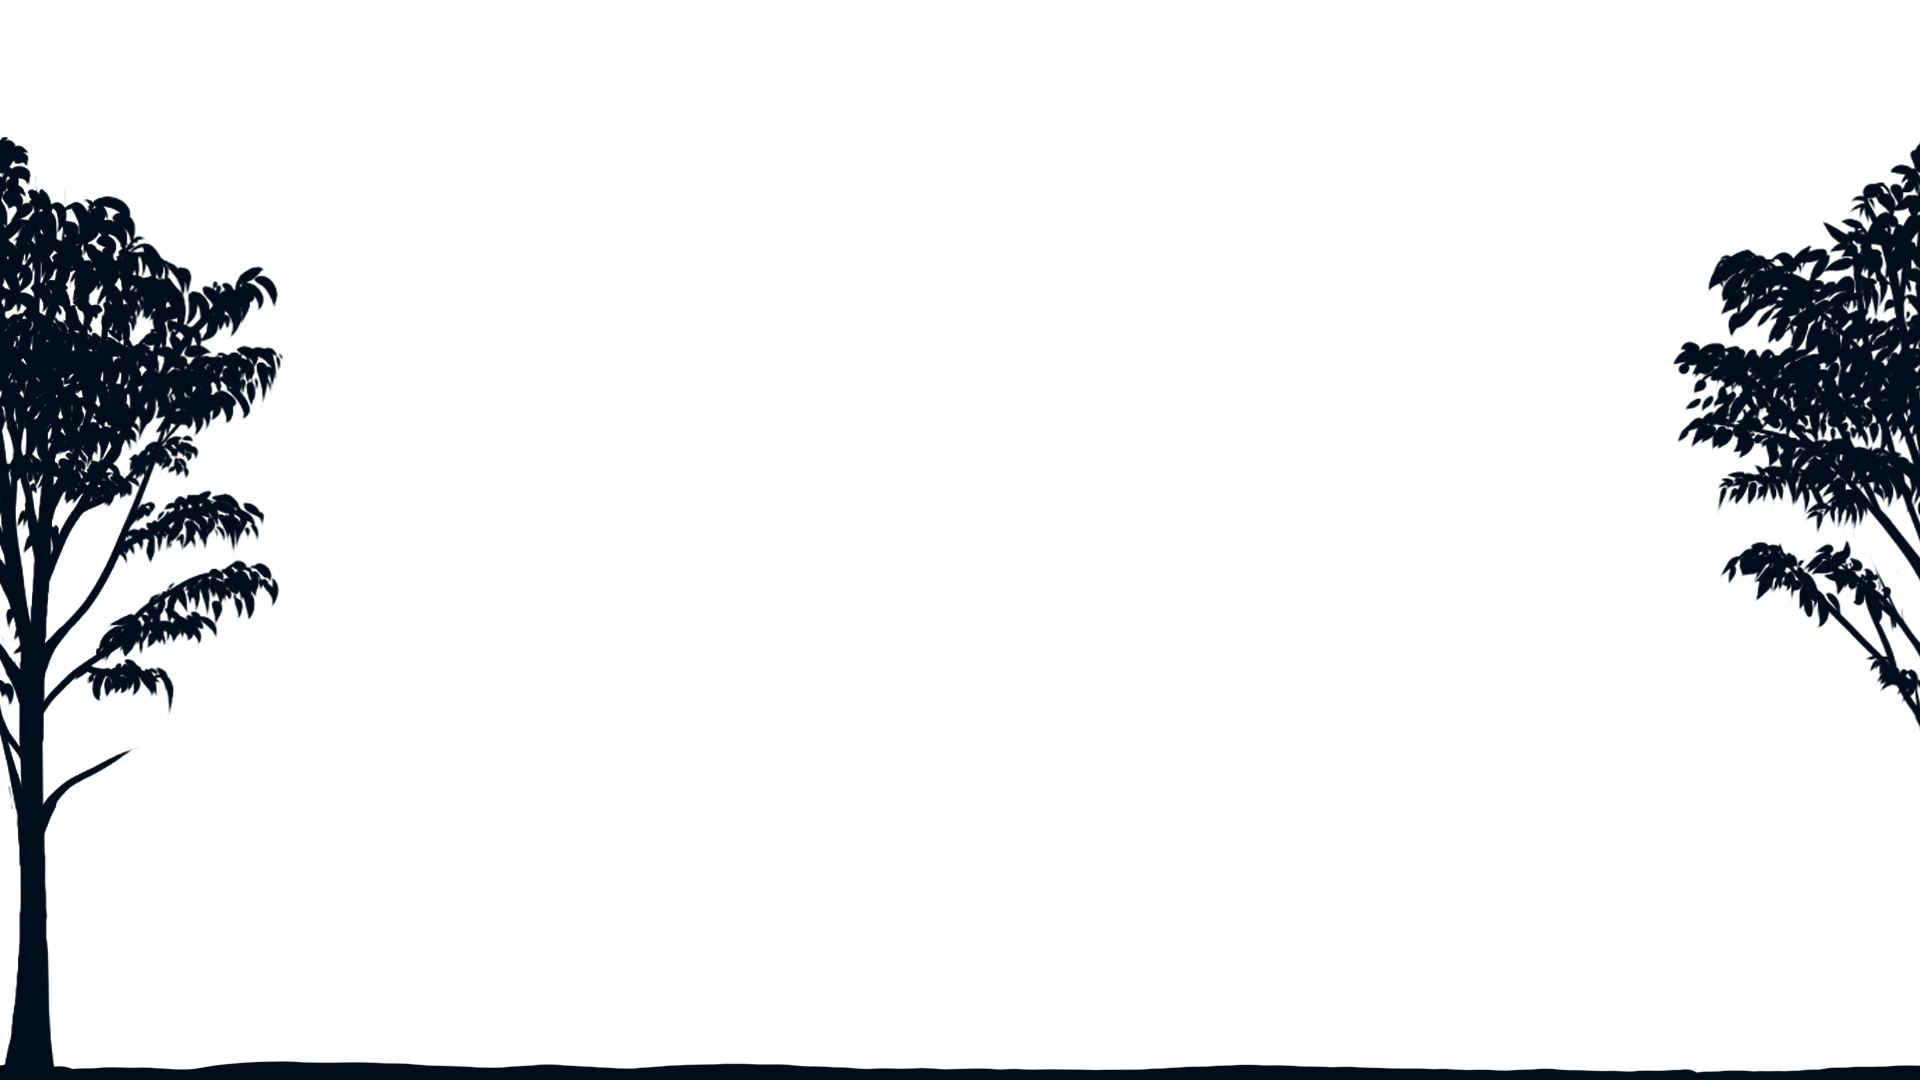
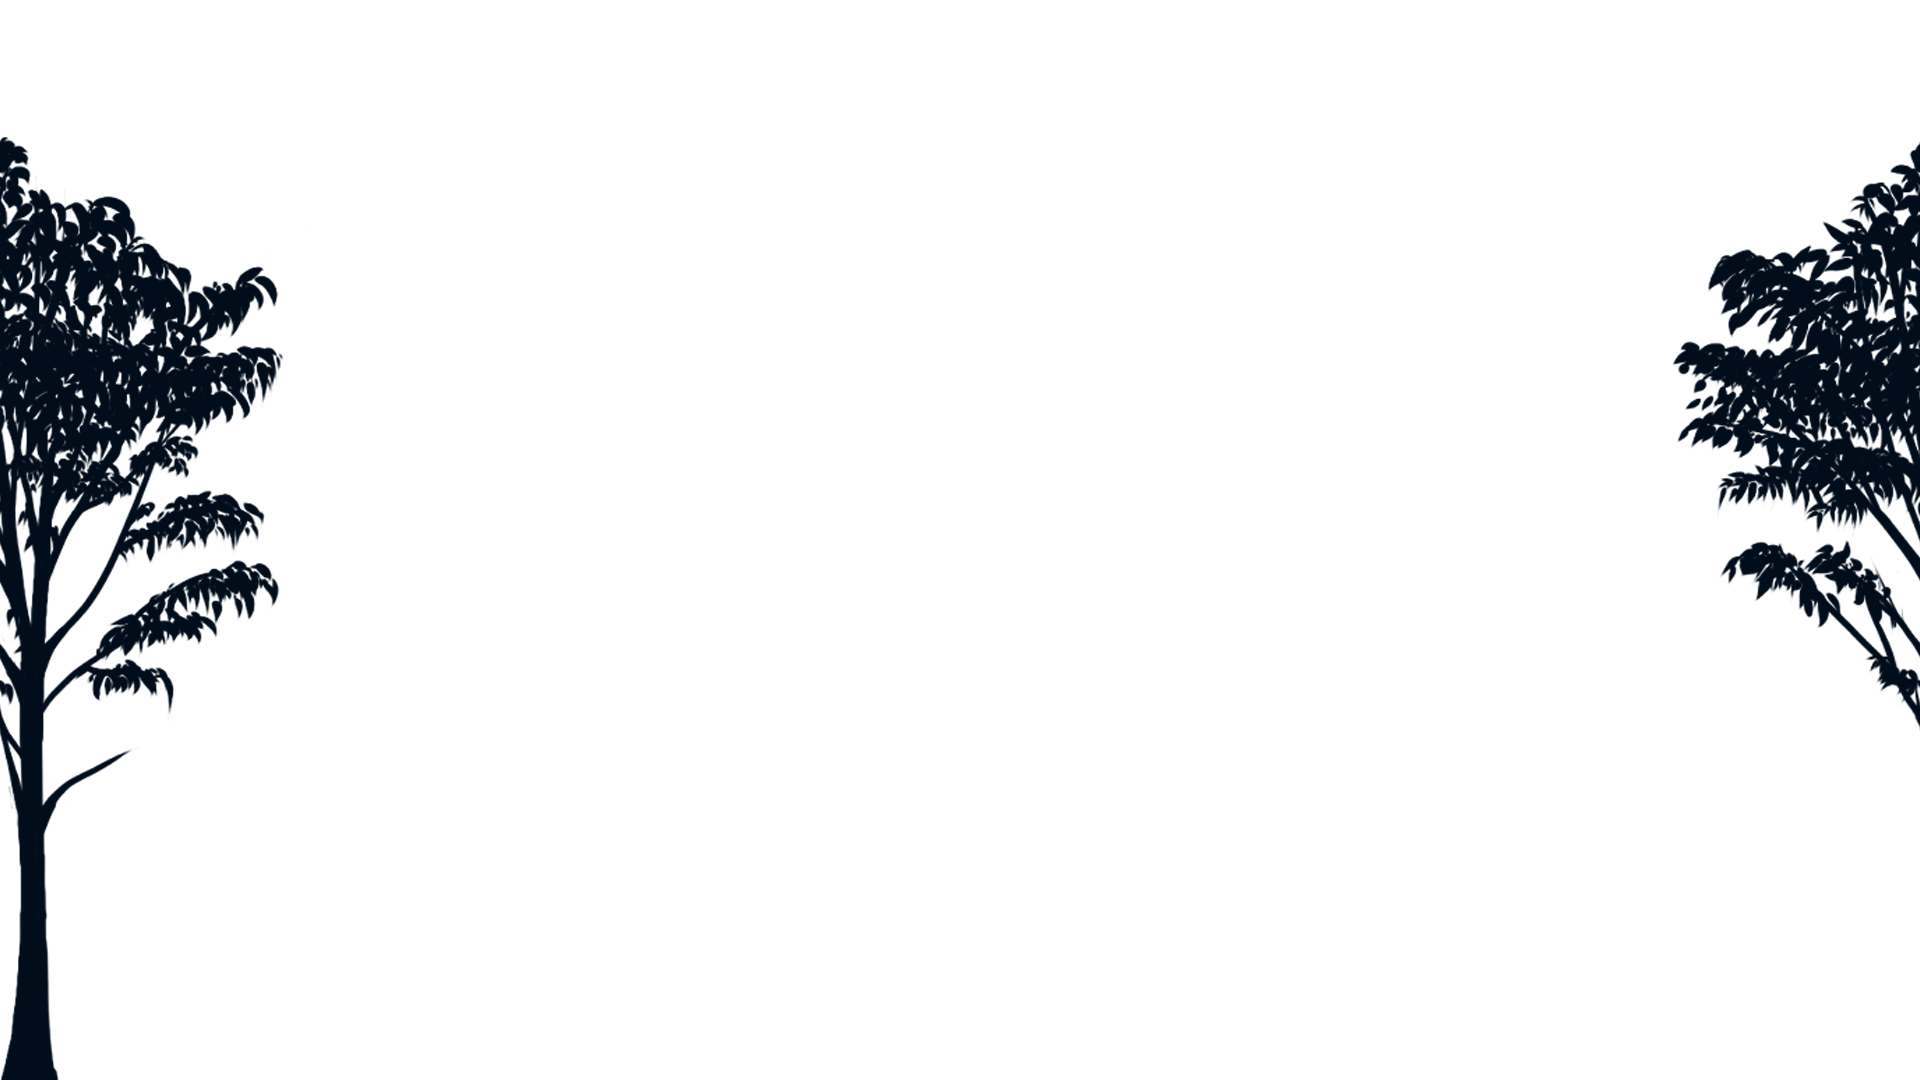
adjustments

Changed region(s): [[0.0, 0.9778, 1.0, 1.0], [0.0, 0.1528, 0.0625, 0.7333]]

diff --git a/src/App.js b/src/App.js
@@ -6,6 +6,8 @@ import { Routes, Route } from "react-router-dom";
 import Background from './components/Background';
 import Navigation from './components/common/Navigation';
 import { useMousePosition } from "./components/useMousePosition";
+import Stars from './components/Stars';
+import Footer from './components/common/Footer';
 
 // pages
 import CurrentPage from './components/CurrentPage';
@@ -13,7 +15,6 @@ import PageNotFound from "./components/pages/PageNotFound";
 
 // css
 import './App.css';
-import Stars from './components/Stars';
 
 function App() {
 
@@ -120,6 +121,7 @@ function App() {
     <div className="App" onWheel={handlePageIndex}> 
      <Background backgroundPlay={backgroundPlay} LlamaPlay={LlamaPlay} pageIndex={pageIndex}/>
      <Stars />
+     <Footer />
      <Navigation  
           pageIndex={pageIndex} 
           mobileMenu={mobileMenu}
@@ -141,7 +143,7 @@ function App() {
            transition={transition}
         />} />
       </Routes>
-    </div>
+    </div> 
   );
 }
 

diff --git a/src/components/Trees.jsx b/src/components/Trees.jsx
@@ -10,7 +10,7 @@ const Trees = (props) => {
 
   return (
     <Fragment>
-      <div id='trees' style={{animationPlayState: backgroundPlay, marginLeft: position.x / 50 + 'px', marginBottom: position.y / 60 + 'px'}}></div>
+      <div id='trees' style={{animationPlayState: backgroundPlay, marginLeft: position.x / 40 + 'px', marginBottom: position.y / 60 + 'px'}}></div>
       <div className='waterOverlay'></div>\
     </Fragment>
   )

diff --git a/src/components/common/Footer.css b/src/components/common/Footer.css
@@ -1,0 +1,24 @@
+.footer{
+  display: flex;
+  align-items: center;
+  justify-content: flex-end;
+  position: absolute;
+  height: 2.2%;
+  z-index: 100;
+  width: 100%;
+  bottom: 0;
+  background-color: #020d1b;
+  color: #07306A;
+  letter-spacing: 0.2rem;
+  font-size: 0.8rem;
+  transition: all ease-in-out 0.2s;
+  overflow: hidden;
+}
+
+.footer p {
+  margin: 0px 40px;
+}
+
+.footer:hover{
+  color: white;
+}

diff --git a/src/components/TallTrees.jsx b/src/components/TallTrees.jsx
@@ -8,7 +8,7 @@ const TallTrees = (props) => {
   const position = useMousePosition();
 
   return (
-      <div id='foreground' style={{animationPlayState: backgroundPlay, transform: zoom, marginLeft: position.x / 60 + 'px' }}></div>
+      <div id='foreground' style={{animationPlayState: backgroundPlay, transform: zoom, marginLeft: position.x / -30 + 'px' }}></div>
   )
 }
 

diff --git a/src/components/Grass.jsx b/src/components/Grass.jsx
@@ -7,7 +7,7 @@ const Grass = (props) => {
   const position = useMousePosition();
 
   return (
-      <div className='grass' style={{animationPlayState: backgroundPlay,  marginLeft: position.x / 90 + 'px' }}></div>
+      <div className='grass' style={{animationPlayState: backgroundPlay,  marginLeft: position.x / -80 + 'px' }}></div>
   )
 }
 

diff --git a/src/components/FlipBookLlama.jsx b/src/components/FlipBookLlama.jsx
@@ -28,7 +28,7 @@ function FlipBookLlama(props) {
     LlamaSlide8
   ];
   return (
-    <div className="llamaWrapper"  style={{marginLeft: position.x / 60 + 'px'}}>
+    <div className="llamaWrapper"  style={{marginLeft: position.x / -60 + 'px'}}>
       <FlipBook images={images} LlamaPlay={LlamaPlay} speed="120" />
     </div>
   );

diff --git a/src/components/Mountains.jsx b/src/components/Mountains.jsx
@@ -8,7 +8,7 @@ const Mountains = () => {
 
   
   return (
-    <div className="mountains"  style={{marginLeft: position.x / 30 + 'px', paddingBottom: position.y / 50 + 'px'}} ></div>
+    <div className="mountains"  style={{marginLeft: position.x / 30 + 'px', marginBottom: position.y / 40 + 'px'}} ></div>
   )
 }
 

diff --git a/src/components/common/Footer.jsx b/src/components/common/Footer.jsx
@@ -1,0 +1,10 @@
+import React from 'react'
+import './Footer.css'
+
+const Footer = () => {
+  return (
+    <div className='footer'><p>Arran Wilson designs | 2022</p></div>
+  )
+}
+
+export default Footer;

diff --git a/src/components/Background.css b/src/components/Background.css
@@ -6,7 +6,7 @@
 .backgroundWrapper {
   position: absolute;
   width: 100%;
-  height: 100%;
+  height: 98%;
   overflow: hidden;
   display: flex;
   justify-content: center;

diff --git a/src/components/Grass.css b/src/components/Grass.css
@@ -1,4 +1,5 @@
 .grass {
+  margin-bottom: -20px;
   height: 100%;
   width: 100%;
   background: url("../img/midnight-foreground-bank.png") repeat-x;
